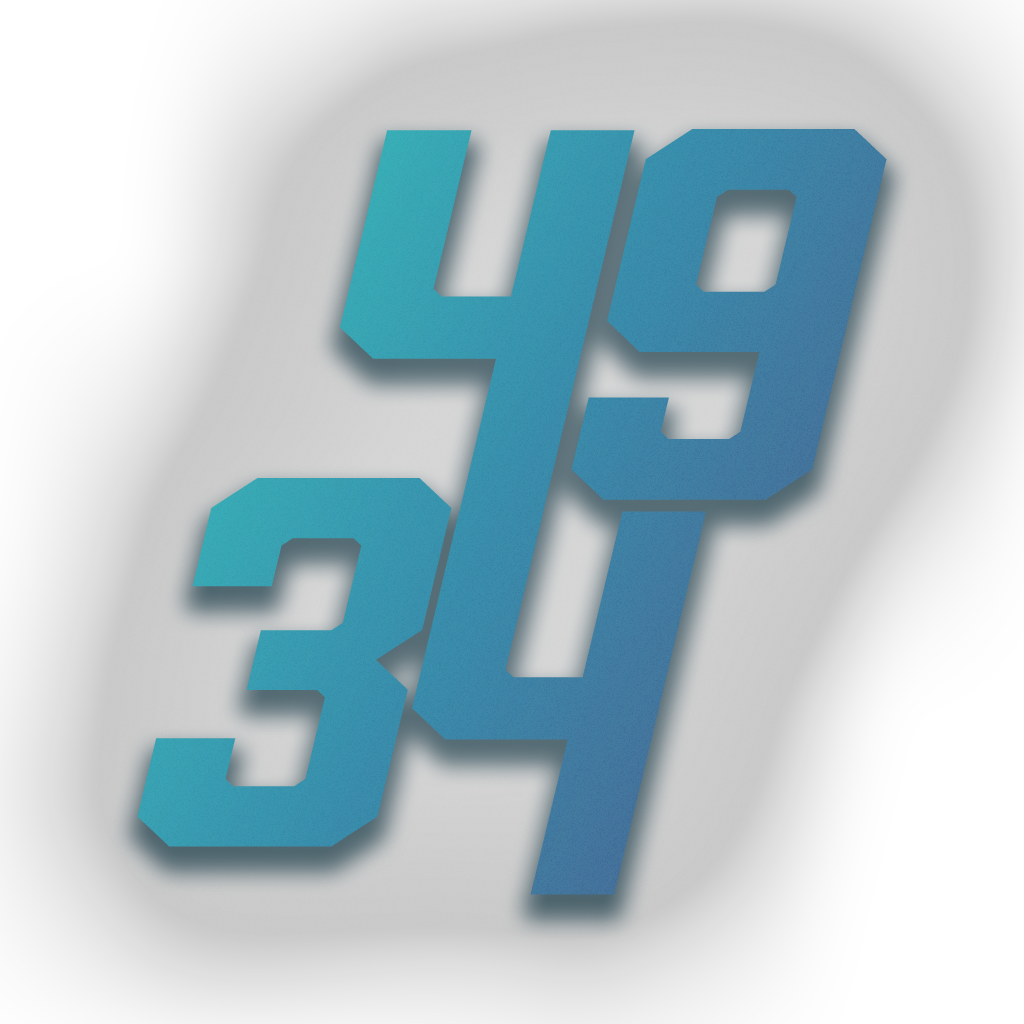
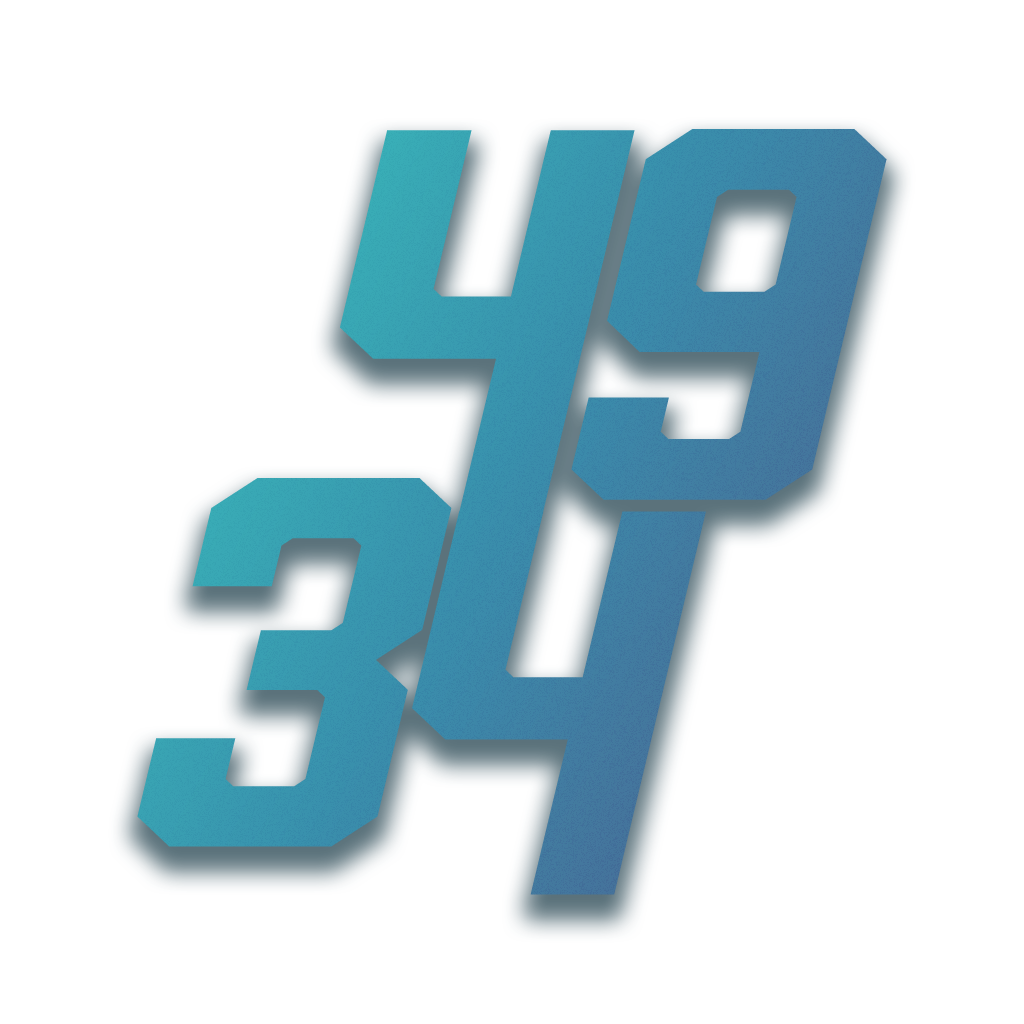
Refactor homepage and add dynamic background.
Replaced placeholder homepage content with `HomeHero` component for updated design. Introduced `DynamicBackground` for a visually appealing animated background. Minor updates to `NavItem` styling and layout metadata.

diff --git a/src/app/page.tsx b/src/app/page.tsx
@@ -1,103 +1,9 @@
-import Image from "next/image";
+import HomeHero from "@/components/HomeHero";
 
 export default function Home() {
   return (
       <>
-    <div className="grid grid-rows-[20px_1fr_20px] items-center justify-items-center min-h-screen p-8 pb-20 gap-16 sm:p-20 font-[family-name:var(--font-geist-sans)]">
-      <main className="flex flex-col gap-8 row-start-2 items-center sm:items-start">
-        <Image
-          className="dark:invert"
-          src="/next.svg"
-          alt="Next.js logo"
-          width={180}
-          height={38}
-          priority
-        />
-        <ol className="list-inside list-decimal text-sm text-center sm:text-left font-[family-name:var(--font-geist-mono)]">
-          <li className="mb-2">
-            Get started by editing{" "}
-            <code className="bg-black/[.05] dark:bg-white/[.06] px-1 py-0.5 rounded font-semibold">
-              src/app/page.tsx
-            </code>
-            .
-          </li>
-          <li>Save and see your changes instantly.</li>
-        </ol>
-
-        <div className="flex gap-4 items-center flex-col sm:flex-row">
-          <a
-            className="rounded-full border border-solid border-transparent transition-colors flex items-center justify-center bg-foreground text-background gap-2 hover:bg-[#383838] dark:hover:bg-[#ccc] text-sm sm:text-base h-10 sm:h-12 px-4 sm:px-5"
-            href="https://vercel.com/new?utm_source=create-next-app&utm_medium=appdir-template-tw&utm_campaign=create-next-app"
-            target="_blank"
-            rel="noopener noreferrer"
-          >
-            <Image
-              className="dark:invert"
-              src="/vercel.svg"
-              alt="Vercel logomark"
-              width={20}
-              height={20}
-            />
-            Deploy now
-          </a>
-          <a
-            className="rounded-full border border-solid border-black/[.08] dark:border-white/[.145] transition-colors flex items-center justify-center hover:bg-[#f2f2f2] dark:hover:bg-[#1a1a1a] hover:border-transparent text-sm sm:text-base h-10 sm:h-12 px-4 sm:px-5 sm:min-w-44"
-            href="https://nextjs.org/docs?utm_source=create-next-app&utm_medium=appdir-template-tw&utm_campaign=create-next-app"
-            target="_blank"
-            rel="noopener noreferrer"
-          >
-            Read our docs
-          </a>
-        </div>
-      </main>
-      <footer className="row-start-3 flex gap-6 flex-wrap items-center justify-center">
-        <a
-          className="flex items-center gap-2 hover:underline hover:underline-offset-4"
-          href="https://nextjs.org/learn?utm_source=create-next-app&utm_medium=appdir-template-tw&utm_campaign=create-next-app"
-          target="_blank"
-          rel="noopener noreferrer"
-        >
-          <Image
-            aria-hidden
-            src="/file.svg"
-            alt="File icon"
-            width={16}
-            height={16}
-          />
-          Learn
-        </a>
-        <a
-          className="flex items-center gap-2 hover:underline hover:underline-offset-4"
-          href="https://vercel.com/templates?framework=next.js&utm_source=create-next-app&utm_medium=appdir-template-tw&utm_campaign=create-next-app"
-          target="_blank"
-          rel="noopener noreferrer"
-        >
-          <Image
-            aria-hidden
-            src="/window.svg"
-            alt="Window icon"
-            width={16}
-            height={16}
-          />
-          Examples
-        </a>
-        <a
-          className="flex items-center gap-2 hover:underline hover:underline-offset-4"
-          href="https://nextjs.org?utm_source=create-next-app&utm_medium=appdir-template-tw&utm_campaign=create-next-app"
-          target="_blank"
-          rel="noopener noreferrer"
-        >
-          <Image
-            aria-hidden
-            src="/globe.svg"
-            alt="Globe icon"
-            width={16}
-            height={16}
-          />
-          Go to nextjs.org →
-        </a>
-      </footer>
-    </div>
+        <HomeHero />
       </>
   );
 }

diff --git a/src/components/DynamicBackground/index.tsx b/src/components/DynamicBackground/index.tsx
@@ -1,0 +1,106 @@
+'use client'
+
+import { useEffect, useRef } from 'react'
+
+interface Shape {
+    x: number
+    y: number
+    radius: number
+    color: string
+    vx: number
+    vy: number
+}
+
+const colorInterpolation = (color1: string, color2: string, factor: number): string => {
+    const r1 = parseInt(color1.slice(1, 3), 16)
+    const g1 = parseInt(color1.slice(3, 5), 16)
+    const b1 = parseInt(color1.slice(5, 7), 16)
+    const r2 = parseInt(color2.slice(1, 3), 16)
+    const g2 = parseInt(color2.slice(3, 5), 16)
+    const b2 = parseInt(color2.slice(5, 7), 16)
+
+    const r = Math.round(r1 + factor * (r2 - r1))
+    const g = Math.round(g1 + factor * (g2 - g1))
+    const b = Math.round(b1 + factor * (b2 - b1))
+
+    return `#${r.toString(16).padStart(2, '0')}${g.toString(16).padStart(2, '0')}${b.toString(16).padStart(2, '0')}`
+}
+
+const createShape = (width: number, height: number): Shape => ({
+    x: Math.random() * width,
+    y: Math.random() * height,
+    radius: Math.random() * 200 + 150,
+    color: colorInterpolation('#03181c', '#32b7b6', Math.random()),
+    vx: (Math.random() - 0.5) * 0.5,
+    vy: (Math.random() - 0.5) * 0.5
+})
+
+export default function DynamicBackground() {
+    const canvasRef = useRef<HTMLCanvasElement>(null)
+
+    useEffect(() => {
+        const canvas = canvasRef.current
+        if (!canvas) return
+
+        const ctx = canvas.getContext('2d')
+        if (!ctx) return
+
+        let shapes: Shape[] = []
+        let animationFrameId: number
+
+        const resizeCanvas = () => {
+            canvas.width = window.innerWidth
+            canvas.height = window.innerHeight
+            shapes = Array.from({ length: 5 }, () => createShape(canvas.width, canvas.height))
+        }
+
+        const drawShape = (shape: Shape) => {
+            ctx.beginPath()
+            ctx.arc(shape.x, shape.y, shape.radius, 0, Math.PI * 2)
+            ctx.fillStyle = shape.color
+            ctx.fill()
+        }
+
+        const updateShape = (shape: Shape) => {
+            shape.x += shape.vx
+            shape.y += shape.vy
+
+            if (shape.x < -shape.radius) shape.x = canvas.width + shape.radius
+            if (shape.x > canvas.width + shape.radius) shape.x = -shape.radius
+            if (shape.y < -shape.radius) shape.y = canvas.height + shape.radius
+            if (shape.y > canvas.height + shape.radius) shape.y = -shape.radius
+        }
+
+        const animate = () => {
+            ctx.clearRect(0, 0, canvas.width, canvas.height)
+
+            shapes.forEach(drawShape)
+            shapes.forEach(updateShape)
+
+            ctx.globalCompositeOperation = 'screen'
+            shapes.forEach(drawShape)
+            ctx.globalCompositeOperation = 'source-over'
+
+            animationFrameId = requestAnimationFrame(animate)
+        }
+
+        resizeCanvas()
+        animate()
+
+        window.addEventListener('resize', resizeCanvas)
+
+        return () => {
+            window.removeEventListener('resize', resizeCanvas)
+            cancelAnimationFrame(animationFrameId)
+        }
+    }, [])
+
+    return (
+        <canvas
+            ref={canvasRef}
+            className="fixed inset-0 -z-10"
+            style={{ filter: 'blur(100px)' }}
+        />
+    )
+}
+

diff --git a/src/components/HomeHero/index.tsx b/src/components/HomeHero/index.tsx
@@ -1,0 +1,50 @@
+'use client'
+
+export default function HomeHero() {
+
+    return (
+        <div>
+
+            <div className="relative isolate px-6 pt-14 lg:px-8">
+                <div className="mx-auto max-w-2xl py-32 sm:py-48 lg:py-56">
+                    <div className="hidden sm:mb-8 sm:flex sm:justify-center">
+                        <div className="relative rounded-full px-3 py-1 text-sm/6 text-gray-400 ring-1 ring-gray-900/10 hover:ring-gray-900/20">
+                            Announcing 4934 UltraAgent.{' '}
+                            <a href="#" className="font-semibold bg-gradient-to-tr from-[#32b7b6] to-[#425389] bg-clip-text text-transparent">
+                                <span aria-hidden="true" className="absolute inset-0" />
+                                Read more <span aria-hidden="true">&rarr;</span>
+                            </a>
+                        </div>
+                    </div>
+                    <div className="text-center">
+                        <h1 className="text-balance text-5xl font-semibold tracking-tight text-white sm:text-7xl">
+                            AI with{" "}
+                            <span
+                                className="bg-gradient-to-tr from-[#32b7b6] to-[#425389] bg-clip-text text-transparent">
+                                real world
+                            </span>
+                            {" "}
+                            capabilities.
+                        </h1>
+
+                        <p className="mt-8 text-pretty text-lg font-medium text-gray-400 sm:text-xl/8">
+                            4934 UltraAgent is a powerful AI agent to tightly integrate with your existing systems. It&#39;s designed to be a seamless extension of your life, with power to control whatever you want it to.
+                        </p>
+                        <div className="mt-10 flex items-center justify-center gap-x-6">
+                            <a
+                                href="https://github.com/4934tech/ultraagent"
+                                className="relative inline-block rounded-md bg-gradient-to-br from-[#1d6a69] to-[#1d243c] px-3.5 py-2.5 text-sm font-semibold text-white shadow-sm transition-all duration-300 ease-in-out before:absolute before:inset-0 before:rounded-md before:bg-gradient-to-br before:from-[#32b7b6] before:to-[#425389] before:opacity-0 before:transition-opacity before:duration-300 hover:before:opacity-100"
+                            >
+                                <span className="relative">Get started</span>
+                            </a>
+
+                            <a href="#" className="text-sm/6 font-semibold text-white">
+                                Learn more <span aria-hidden="true">→</span>
+                            </a>
+                        </div>
+                    </div>
+                </div>
+            </div>
+        </div>
+    )
+}

diff --git a/src/app/layout.tsx b/src/app/layout.tsx
@@ -2,6 +2,7 @@ import type { Metadata } from "next";
 import { Geist, Azeret_Mono as Geist_Mono } from 'next/font/google';
 import "@/styles/globals.css";
 import NavBar from "@/components/NavBar";
+import DynamicBackground from "../components/DynamicBackground";
 
 const geistSans = Geist({
     variable: "--font-geist-sans",
@@ -15,7 +16,7 @@ const geistMono = Geist_Mono({
 
 export const metadata: Metadata = {
     title: "4934.tech",
-    description: "4934.tech is a website made by Olav \"Olavorw\" Sharma.",
+    description: "4934.tech is a website made by Olav \"Olavorw\" Sharma. Generated by create next app.",
 };
 
 export default function RootLayout({
@@ -29,6 +30,7 @@ export default function RootLayout({
             className={`${geistSans.variable} ${geistMono.variable} antialiased`}
         >
         <NavBar />
+        <DynamicBackground />
         <main className="pt-16">
             {children}
         </main>

diff --git a/src/components/NavBar/NavItem.tsx b/src/components/NavBar/NavItem.tsx
@@ -11,7 +11,7 @@ interface NavItemProps {
 
 export function NavItem({ label, href = '#', isOpen, hasDropdown, hasArrow, onClick }: NavItemProps) {
     const baseClasses = "flex items-center gap-x-1 text-sm/6 font-semibold transition-colors duration-200 ease-in-out group";
-    const activeClasses = "text-transparent bg-gradient-to-r from-[#32b7b6] to-[#425389] bg-clip-text";
+    const activeClasses = "text-transparent bg-gradient-to-tr from-[#32b7b6] to-[#425389] bg-clip-text";
     const inactiveClasses = "text-white hover:text-transparent hover:bg-gradient-to-r hover:from-[#32b7b6] hover:to-[#425389] hover:bg-clip-text";
 
     return (
